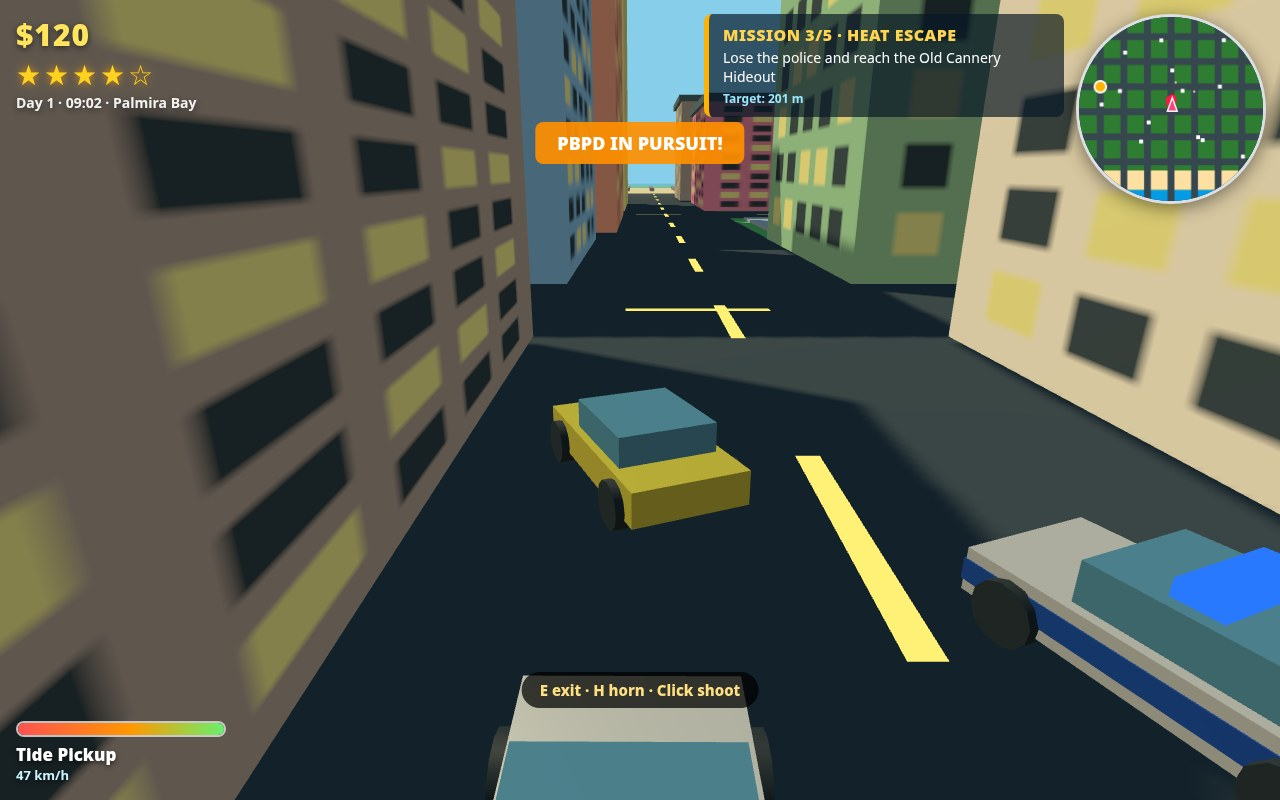
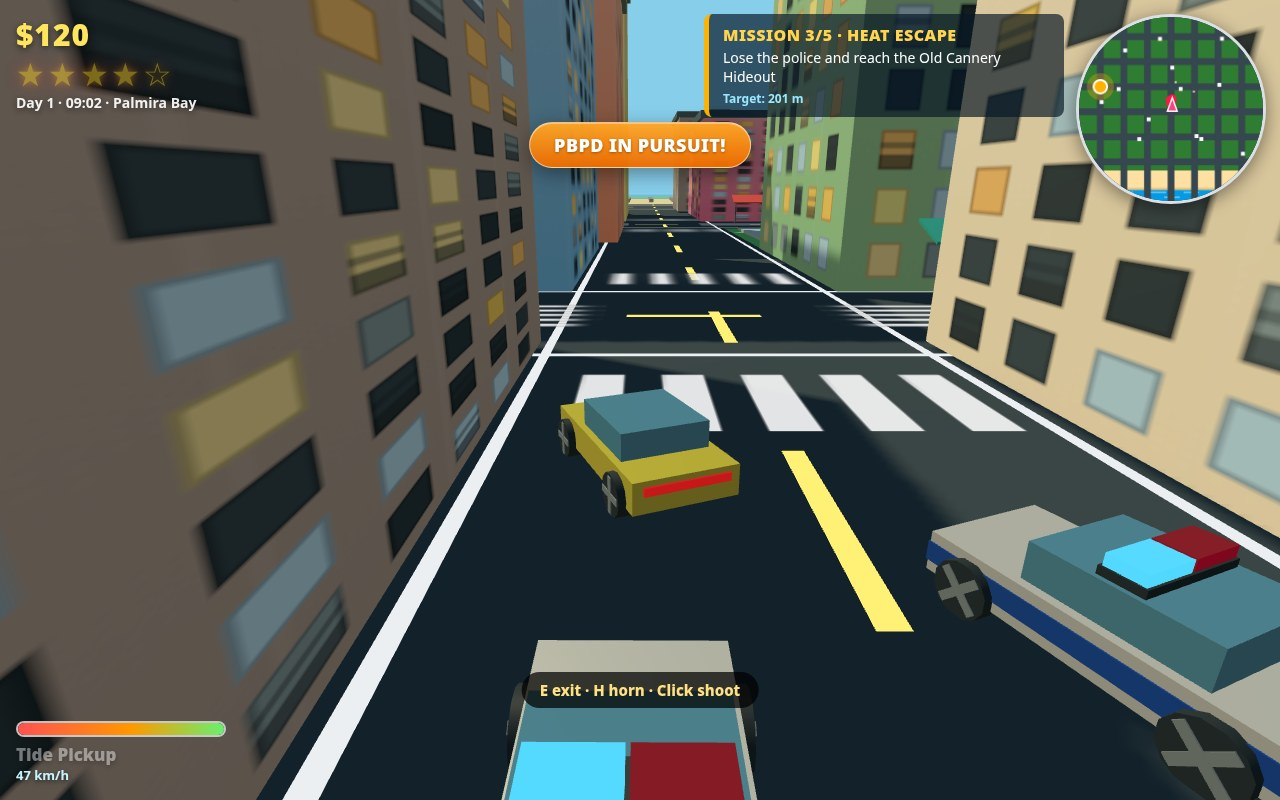
Round 2 stage 4: snap staged camera onto subject, retake 4 screenshots, sorted screenshot staging in main.ts, Round 2 improvements in README

diff --git a/main.ts b/main.ts
@@ -15,7 +15,7 @@
 // Outside the grader's container, MAKEFUN_OUTPUT_DIR stands in for /output:
 //   mkdir -p out && MAKEFUN_OUTPUT_DIR=out node main.ts
 
-import { cpSync, existsSync, mkdirSync, writeFileSync } from 'node:fs';
+import { copyFileSync, cpSync, existsSync, mkdirSync, readdirSync, statSync, writeFileSync } from 'node:fs';
 import { join } from 'node:path';
 import { fileURLToPath } from 'node:url';
 import { buildDossier } from './vendor/makefun-game.ts';
@@ -26,8 +26,24 @@ console.log(`Neon Tide: staging game/ and screenshots/ into ${out} and writing d
 
 mkdirSync(out, { recursive: true });
 cpSync(join(here, 'game'), join(out, 'game'), { recursive: true });
+// Screenshots go over one file at a time in filename order, so the staged
+// set is deterministic no matter what order the filesystem hands them back:
+// the cover first, then the walk, the coastal drive and the mission shot.
+// The dossier only records file names and contents, and the names were
+// already alphabetical, so this reordering changes no byte of dossier.json.
+const shotsDir = join(here, 'screenshots');
 mkdirSync(join(out, 'screenshots'), { recursive: true });
-if (existsSync(join(here, 'screenshots'))) cpSync(join(here, 'screenshots'), join(out, 'screenshots'), { recursive: true });
+let shotCount = 0, shotBytes = 0;
+if (existsSync(shotsDir)) {
+  for (const name of readdirSync(shotsDir).sort()) {
+    const from = join(shotsDir, name);
+    if (!statSync(from).isFile()) continue;
+    copyFileSync(from, join(out, 'screenshots', name));
+    shotCount++;
+    shotBytes += statSync(from).size;
+  }
+}
+console.log(`Neon Tide: staged ${shotCount} screenshots (${shotBytes} bytes) into ${out}.`);
 
 // The scorer's own caps (reference/gate.json): only text_max_bytes shapes the bytes; the others refuse an entry the
 // scorer would refuse (more than 4 screenshots or one over 256 KiB; more than 993 files in game/ or 48 MiB of game

diff --git a/game/js/main.js b/game/js/main.js
@@ -205,6 +205,22 @@ function stageShot(mode) {
   const p = activePos(); chaseCam.angle = activeAngle();
   chaseCam.pos.set(p.x - Math.sin(chaseCam.angle) * 10, 5, p.z - Math.cos(chaseCam.angle) * 10);
   for (let i = 0; i < 7; i++) stepGame(1 / 30, true);
+  // Snap the damped camera to its target: seven settle steps cannot drag
+  // the look-at point across the map after a teleport, so without this the
+  // staged shot faces the camera's previous location (the depot corner) and
+  // the subject ends up behind the lens — the drive shot came out facing
+  // backwards and the walk shot lost the player and the pedestrians.
+  chaseCam.angle = activeAngle();
+  chaseCam.lookPos.set(p.x, p.y + 1.6, p.z);
+  const snapDist = G.inCar ? 10.5 + Math.abs(playerSpeedValue()) * 0.16 : 7.5;
+  const snapHeight = G.inCar ? 3.6 : 3.1;
+  chaseCam.pos.set(
+    p.x - Math.sin(chaseCam.angle) * Math.cos(chaseCam.pitch) * snapDist,
+    p.y + snapHeight + Math.sin(chaseCam.pitch) * snapDist * 0.55,
+    p.z - Math.cos(chaseCam.angle) * Math.cos(chaseCam.pitch) * snapDist,
+  );
+  camera.position.copy(chaseCam.pos);
+  camera.lookAt(chaseCam.lookPos);
   renderer.render(scene, camera);
   G.shotFrozen = true;
   window.__shotReady = true;

diff --git a/README.md b/README.md
@@ -32,6 +32,27 @@ for this game. No names, logos, characters, maps or assets from any commercial g
 - The only library is **three.js**, vendored as a minified module under `game/vendor/`;
   everything else is hand-written ES modules, one job per file, no build step, no network.
 
+## Round 2 improvements
+
+A polish pass on the finished game, in four stages:
+
+- **City and streets** — richer building facades with varied windows, rooftop
+  details and awnings, marked zebra crossings and kerb edge lines on every
+  road, and a tidier HUD.
+- **Motion and chase feel** — wheels that visibly roll, brake lights, a
+  strobing red-and-blue police light bar, traffic that honks when held up,
+  more varied pedestrians, a livelier sprint, and a damped chase camera that
+  widens its view with speed.
+- **Missions and feedback** — a pulsing gold mission beacon with an arrival
+  chime, dialog that types out line by line, hit flashes with knockback, a
+  wanted level that cools down when you break line of sight, coastline detail
+  on the minimap, a procedural music loop (M to mute), a low-health vignette,
+  a versioned save, auto-pause when the tab hides, and a loading progress label.
+- **Screenshots retaken** — all four shots re-rendered from the polished game,
+  with the staged camera snapped onto its subject so the chase, walk, coastal
+  drive and mission frames all show the player, the police and the mission
+  instead of the camera's previous position.
+
 ## Controls
 
 | Key | Action |
